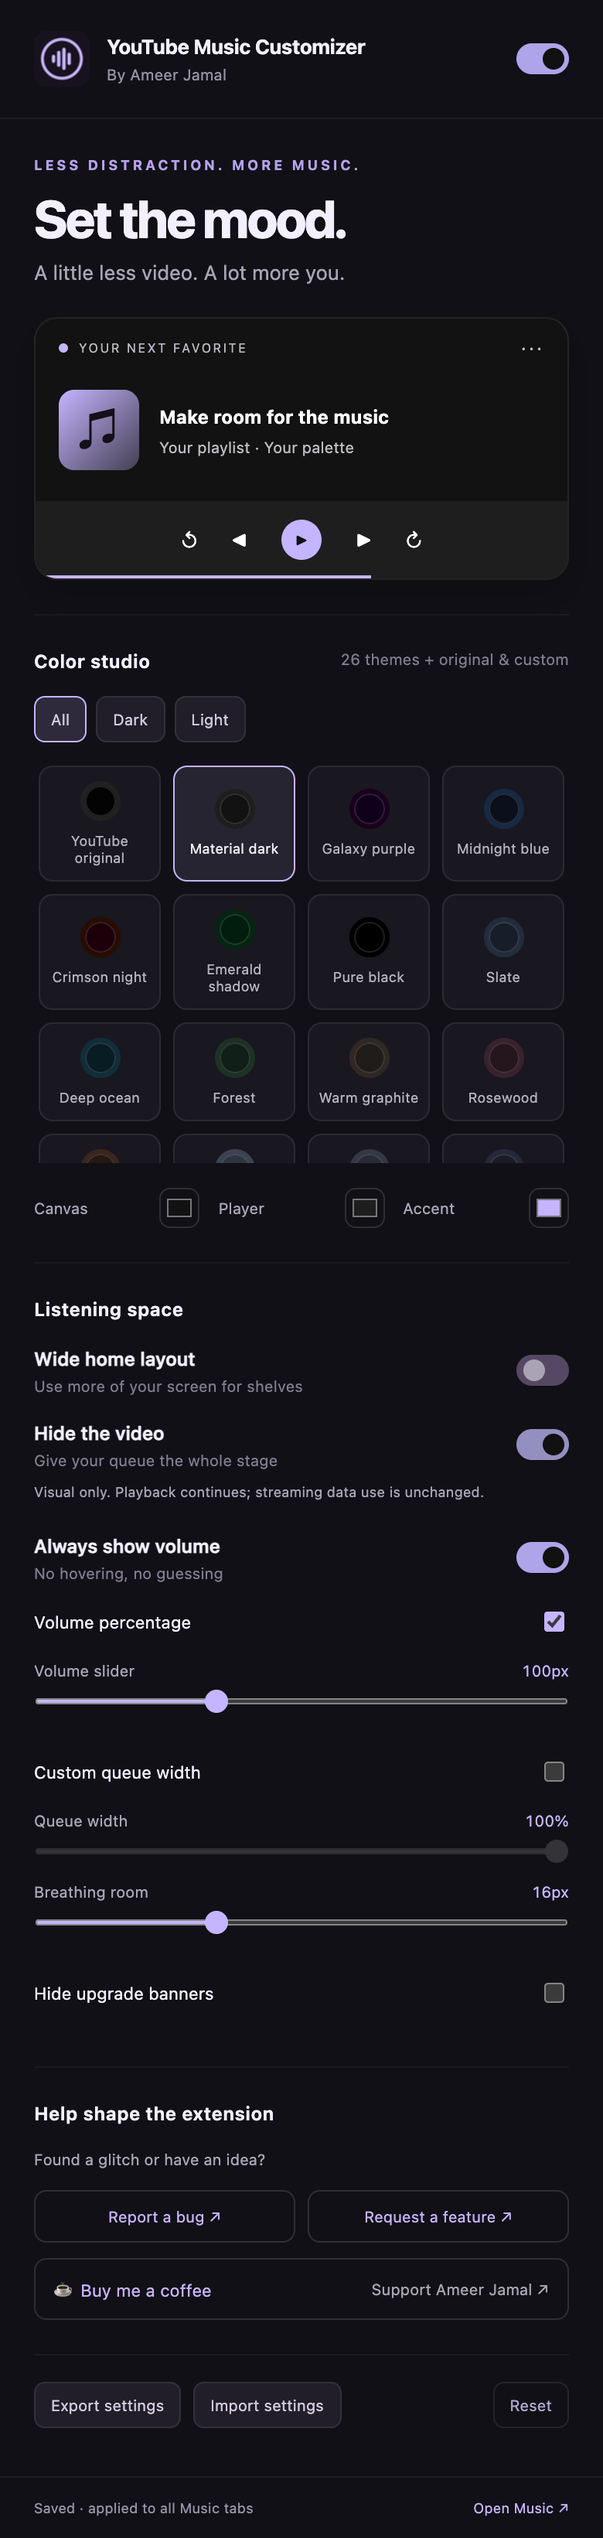
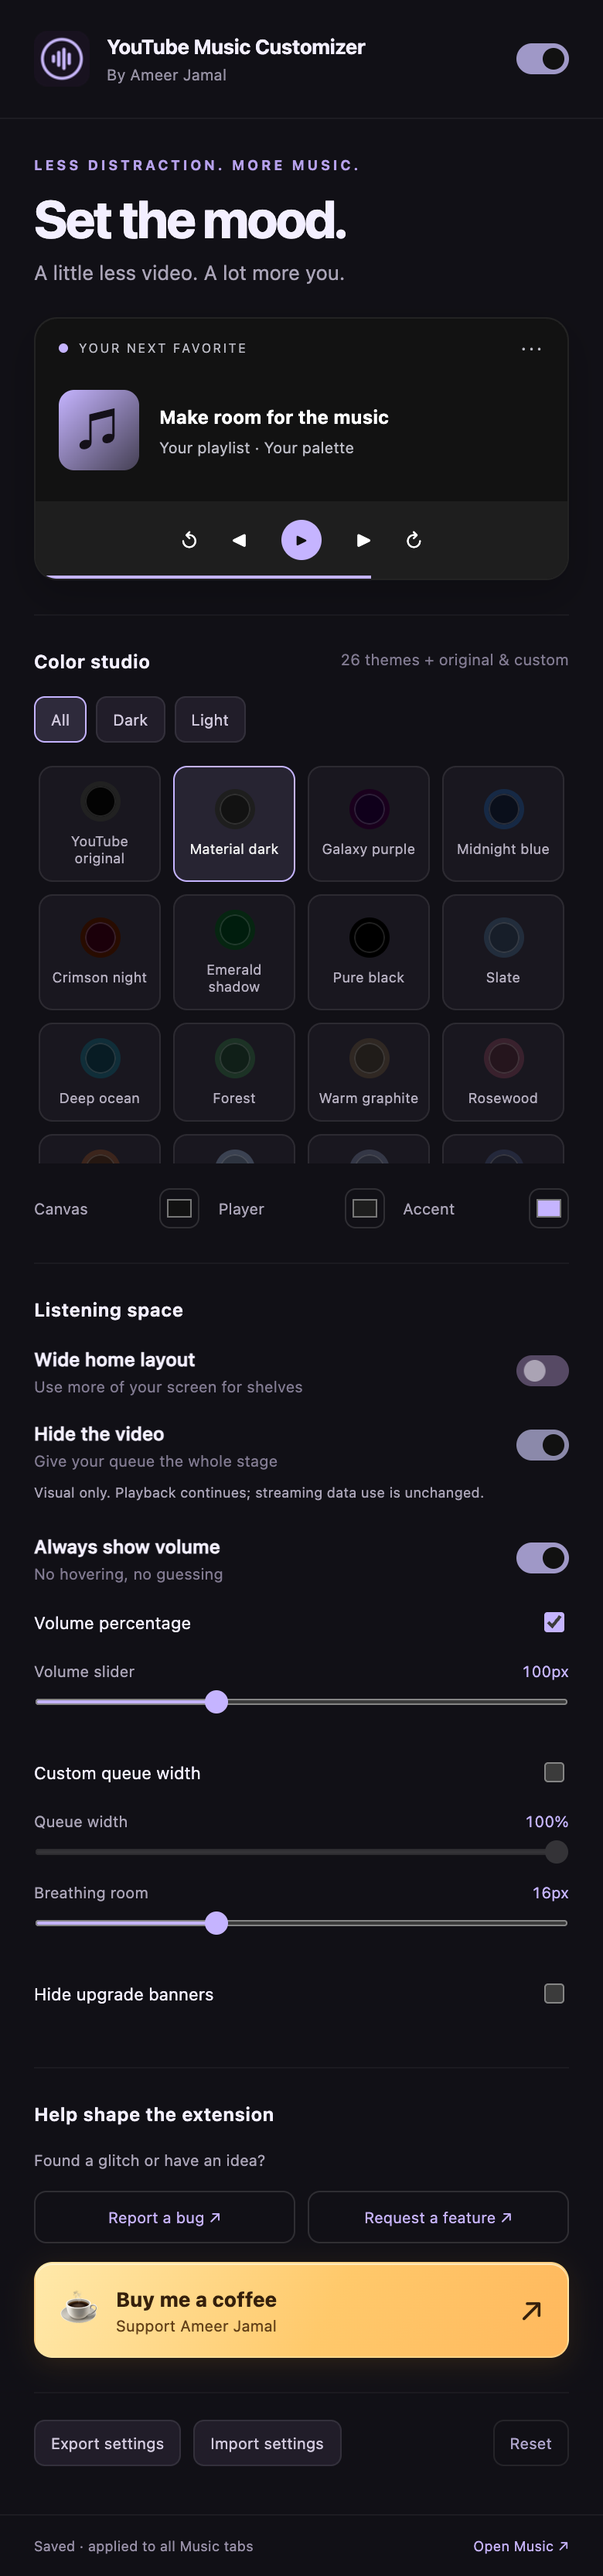
style: make coffee support link warm and subtly animated

diff --git a/popup.css b/popup.css
@@ -413,22 +413,114 @@ input:disabled {
 }
 
 .coffee-link {
+  position: relative;
+  isolation: isolate;
+  overflow: hidden;
   display: flex;
   align-items: center;
-  justify-content: space-between;
-  gap: 8px;
-  margin-top: 10px;
-  padding: 10px 12px;
-  border: 1px solid #ffffff20;
-  border-radius: 8px;
-  font-size: 11px;
+  gap: 12px;
+  margin-top: 12px;
+  padding: 14px 16px;
+  border: 1px solid #ffe6a780;
+  border-radius: 12px;
+  color: #35200c;
+  background: linear-gradient(115deg, #ffe9aa, #ffc96b 55%, #ffb85d);
+  box-shadow:
+    0 4px 18px #f5a62320,
+    inset 0 1px 0 #fff7dbb3;
+  text-decoration: none;
+  transition:
+    transform 180ms ease,
+    box-shadow 180ms ease;
 }
-.coffee-link span {
-  color: var(--ui-muted, #a9a5b5);
+.coffee-link::before {
+  content: "";
+  position: absolute;
+  z-index: -1;
+  inset: 0;
+  background: linear-gradient(
+    110deg,
+    transparent 35%,
+    #ffffff60 50%,
+    transparent 65%
+  );
+  transform: translateX(-130%);
+  animation: coffee-shimmer 7s ease-in-out infinite;
+  pointer-events: none;
+}
+.coffee-icon {
+  font-size: 24px;
+  display: inline-block;
+  animation: coffee-sway 7s ease-in-out infinite;
+}
+.coffee-copy {
+  display: flex;
+  flex: 1;
+  flex-direction: column;
+  gap: 3px;
+}
+.coffee-copy strong {
+  font-size: 13px;
+  font-weight: 750;
+}
+.coffee-copy > span {
   font-size: 10px;
+  color: #634018;
+}
+.coffee-arrow {
+  font-size: 20px;
+  transition: transform 180ms ease;
 }
 .coffee-link:hover,
 .coffee-link:focus-visible {
-  border-color: var(--ui-accent);
-  background: color-mix(in srgb, var(--ui-accent) 8%, transparent);
+  transform: translateY(-2px);
+  box-shadow:
+    0 7px 24px #f5a62340,
+    inset 0 1px 0 #fff7dbb3;
+}
+.coffee-link:focus-visible {
+  outline: 2px solid #fff5d6;
+  outline-offset: 3px;
+}
+.coffee-link:hover .coffee-arrow {
+  transform: translate(2px, -2px);
+}
+@keyframes coffee-shimmer {
+  0%,
+  68% {
+    transform: translateX(-130%);
+  }
+  88%,
+  100% {
+    transform: translateX(130%);
+  }
+}
+@keyframes coffee-sway {
+  0%,
+  68%,
+  88%,
+  100% {
+    transform: rotate(0);
+  }
+  74% {
+    transform: rotate(-10deg);
+  }
+  81% {
+    transform: rotate(8deg);
+  }
+}
+@media (prefers-reduced-motion: reduce) {
+  .coffee-link,
+  .coffee-arrow {
+    transition: none;
+  }
+  .coffee-link::before,
+  .coffee-icon {
+    animation: none;
+  }
+  .coffee-link:hover,
+  .coffee-link:focus-visible,
+  .coffee-link:hover .coffee-arrow {
+    transform: none;
+  }
 }

diff --git a/popup.html b/popup.html
@@ -151,7 +151,12 @@
           href="https://buymeacoffee.com/ameerjamal"
           target="_blank"
           rel="noopener noreferrer"
-          >☕ Buy me a coffee <span>Support Ameer Jamal ↗</span></a
+          ><span class="coffee-icon" aria-hidden="true">☕</span>
+          <span class="coffee-copy"
+            ><strong>Buy me a coffee</strong
+            ><span>Support Ameer Jamal</span></span
+          >
+          <span class="coffee-arrow" aria-hidden="true">↗</span></a
         >
       </section>
       <section class="tools">
